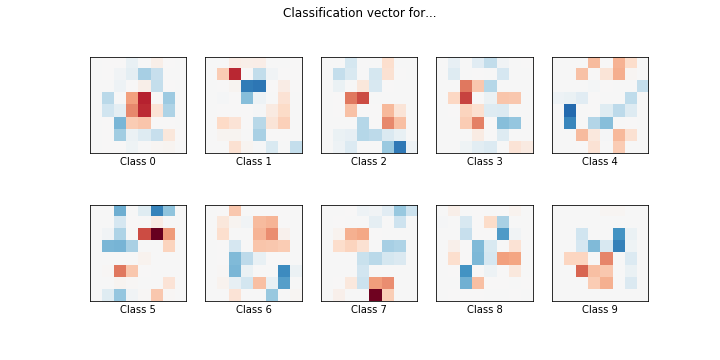
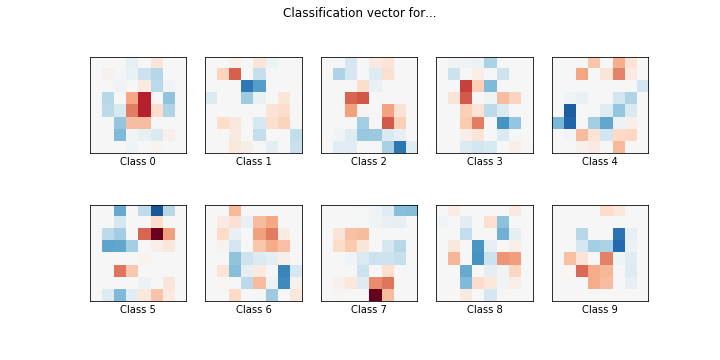
pushing

diff --git a/logit_digitos.py b/logit_digitos.py
@@ -1,7 +1,7 @@
 #!/usr/bin/env python
 # coding: utf-8
 
-# In[35]:
+# In[1]:
 
 
 import matplotlib.pyplot as plt
@@ -18,7 +18,7 @@ from sklearn.metrics import confusion_matrix
 get_ipython().run_line_magic('matplotlib', 'inline')
 
 
-# In[13]:
+# In[2]:
 
 
 numeros = skdata.load_digits()
@@ -28,16 +28,16 @@ n_imagenes = len(target)
 print(np.shape(imagenes), n_imagenes) # Hay 1797 digitos representados en imagenes 8x8
 
 
-# In[20]:
+# In[19]:
 
 
-i=20 # este es uno de esos digitos
+i=1796# este es uno de esos digitos
 _ = plt.imshow(imagenes[i])
 plt.title('{}'.format(target[i]))
 print(imagenes[i])
 
 
-# In[21]:
+# In[4]:
 
 
 # para poder correr PCA debemos "aplanar las imagenes"
@@ -45,14 +45,14 @@ data = imagenes.reshape((n_imagenes, -1)) # para volver a tener los datos como i
 print(np.shape(data))
 
 
-# In[16]:
+# In[5]:
 
 
 from sklearn.preprocessing import StandardScaler
 from sklearn.model_selection import train_test_split
 
 
-# In[41]:
+# In[6]:
 
 
 # Vamos a hacer un split training test
@@ -60,14 +60,14 @@ scaler = StandardScaler()
 x_train, x_test, y_train, y_test = train_test_split(data, target, train_size=0.5)
 
 
-# In[42]:
+# In[7]:
 
 
 x_train = scaler.fit_transform(x_train)
 x_test = scaler.transform(x_test)
 
 
-# In[43]:
+# In[8]:
 
 
 # Turn up tolerance for faster convergence
@@ -76,21 +76,21 @@ train_samples = int(n_imagenes/2)
 clf = LogisticRegression(
     C=50. / train_samples, penalty='l1', solver='saga', tol=0.1)#,multi_class='multinomial'
 clf.fit(x_train, y_train)
+
+
+# In[9]:
+
+
 #predicciones sobre los valores de los dígitos
-y_pred=clf.predict(x_train)
+y_pred=clf.predict(x_test)
 sparsity = np.mean(clf.coef_ == 0) * 100
 score = clf.score(x_test, y_test)
-
-
-# In[44]:
-
-
 # print('Best C % .4f' % clf.C_)
 print("Sparsity with L1 penalty: %.2f%%" % sparsity)
 print("Test score with L1 penalty: %.4f" % score)
 
 
-# In[45]:
+# In[10]:
 
 
 coef = clf.coef_.copy()
@@ -107,36 +107,18 @@ plt.suptitle('Classification vector for...')
 plt.savefig("coeficientes.png")
 
 
-# In[46]:
+# In[11]:
 
 
 np.shape(coef)
 
 
-# In[49]:
+# In[12]:
 
 
 #confusion_matrix(y_true, y_pred)
-plt.imshow(confusion_matrix(y_train, y_pred))
+plt.imshow(confusion_matrix(y_test, y_pred))
 plt.savefig("confusion.png")
-
-
-# In[36]:
-
-
-y_train
-
-
-# In[38]:
-
-
-np.shape()
-
-
-# In[39]:
-
-
-np.shape(x_train)
 
 
 # In[ ]:
